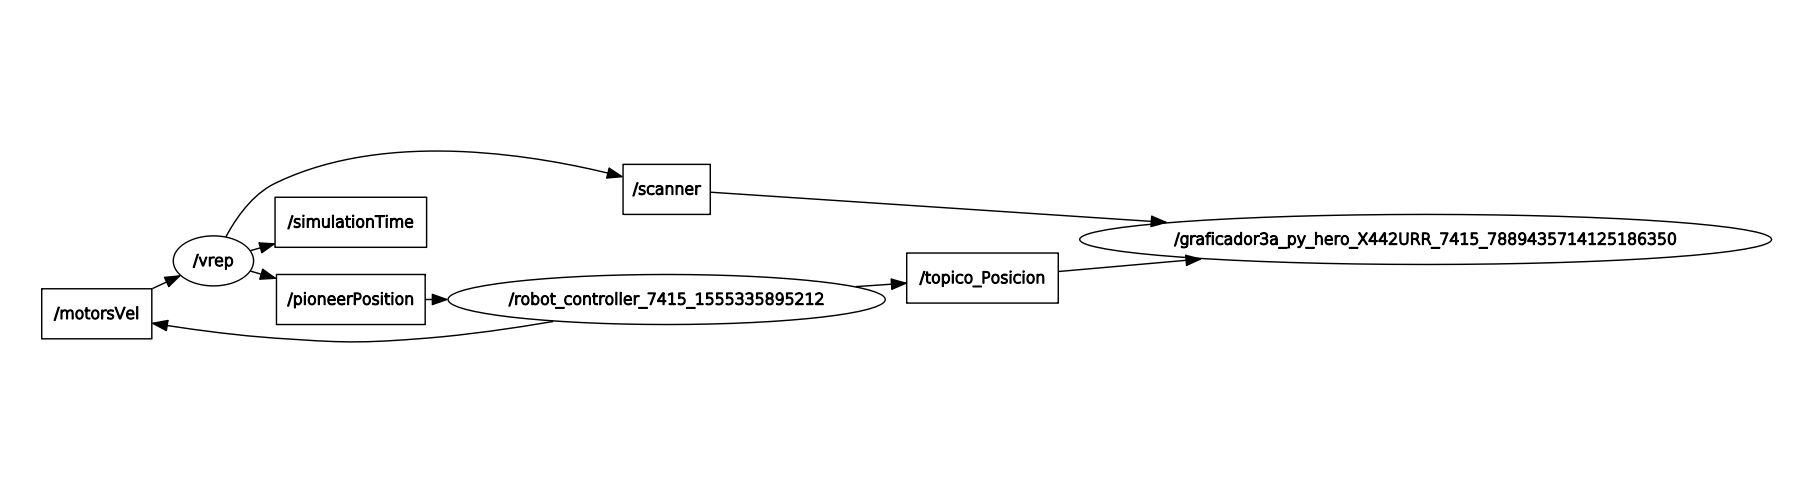
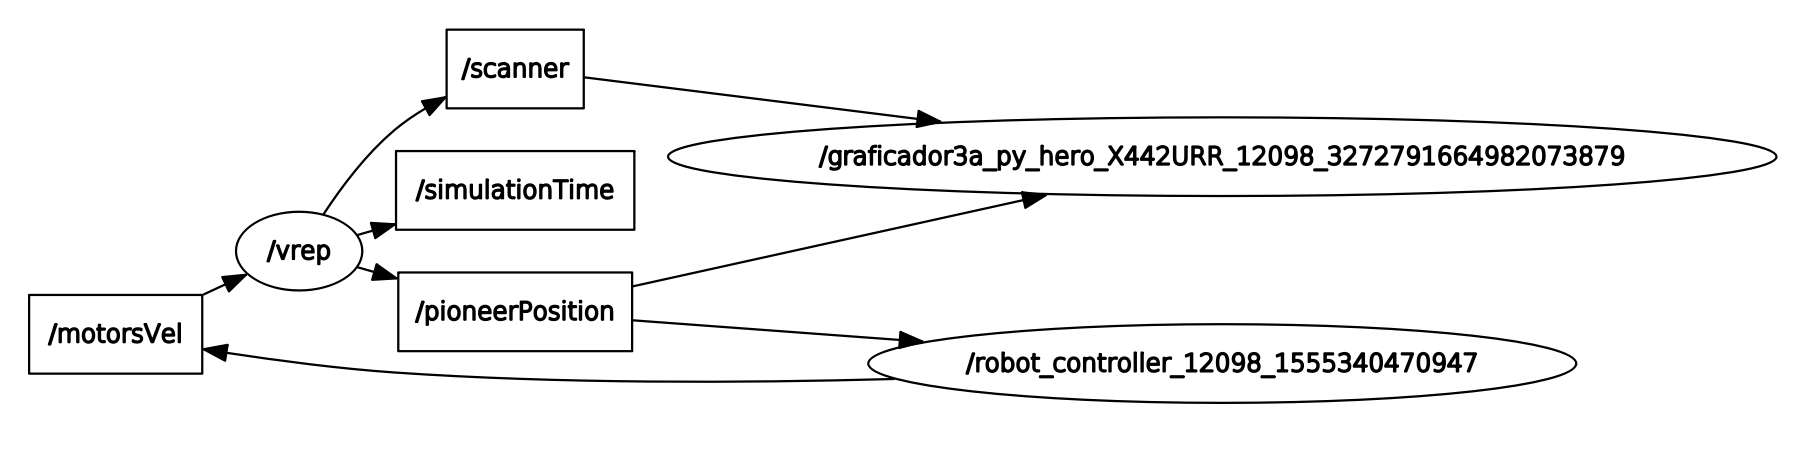
punto 3 todo

diff --git a/Scripts/punto3a.py b/Scripts/punto3a.py
@@ -85,9 +85,9 @@ def robot_controller():
     rospy.init_node('robot_controller', anonymous=True)
     rospy.Subscriber('pioneerPosition', Twist, setPositionCallback)
     pub = rospy.Publisher('motorsVel', Float32MultiArray, queue_size=10)
-    pubPosicion = rospy.Publisher('topico_Posicion', Twist, queue_size=10)
+    #pubPosicion = rospy.Publisher('topico_Posicion', Twist, queue_size=10)
     threading.Thread(target=ThreadInputs).start()
-    rate = rospy.Rate(15)
+    rate = rospy.Rate(18)
     contador = 0
 
     package = 'taller3_4'
@@ -101,10 +101,10 @@ def robot_controller():
     while not rospy.is_shutdown():
         definirMovimiento()
         pub.publish(msg)
-        contador = contador + 1
-        if contador == 3:
-            pubPosicion.publish(twistInfo)
-            contador = 0
+        # contador = contador + 1
+        # if contador == 3:
+        #     #pubPosicion.publish(twistInfo)
+        #     contador = 0
         rate.sleep()
 
 

diff --git a/Scripts/graficador3a.py b/Scripts/graficador3a.py
@@ -23,7 +23,7 @@ def graficar():
     fig = plt.figure()
     axs = fig.add_subplot(111)
     rospy.init_node('graficador3a', anonymous=True)
-    rospy.Subscriber('topico_Posicion', Twist, setNewPosition)
+    rospy.Subscriber('pioneerPosition', Twist, setNewPosition)
     rospy.Subscriber('scanner', Float32MultiArray, setObstacles)
     ani = animation.FuncAnimation(fig, animate)
     plt.show()
